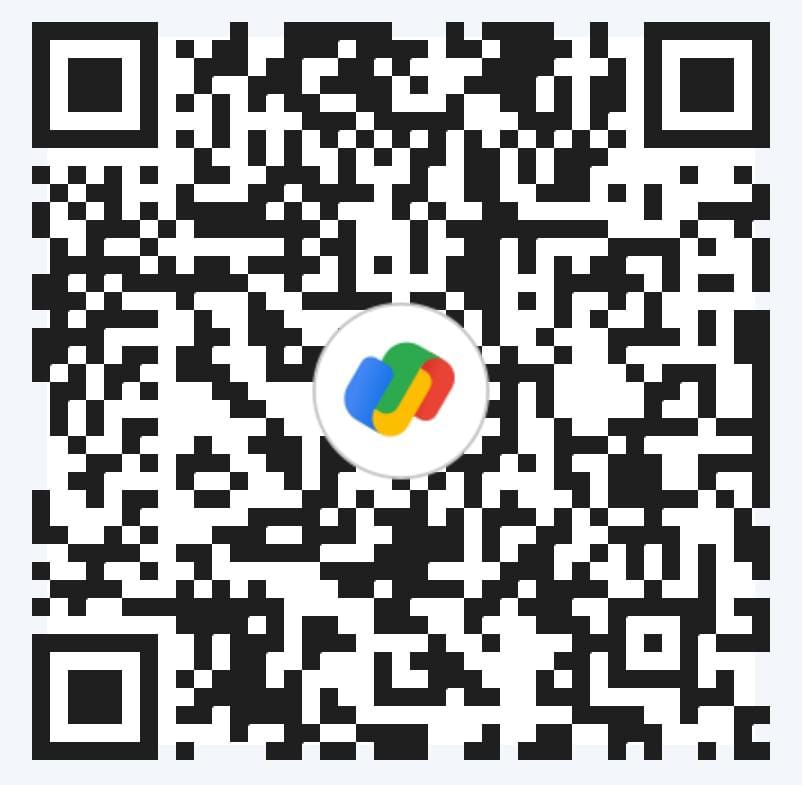
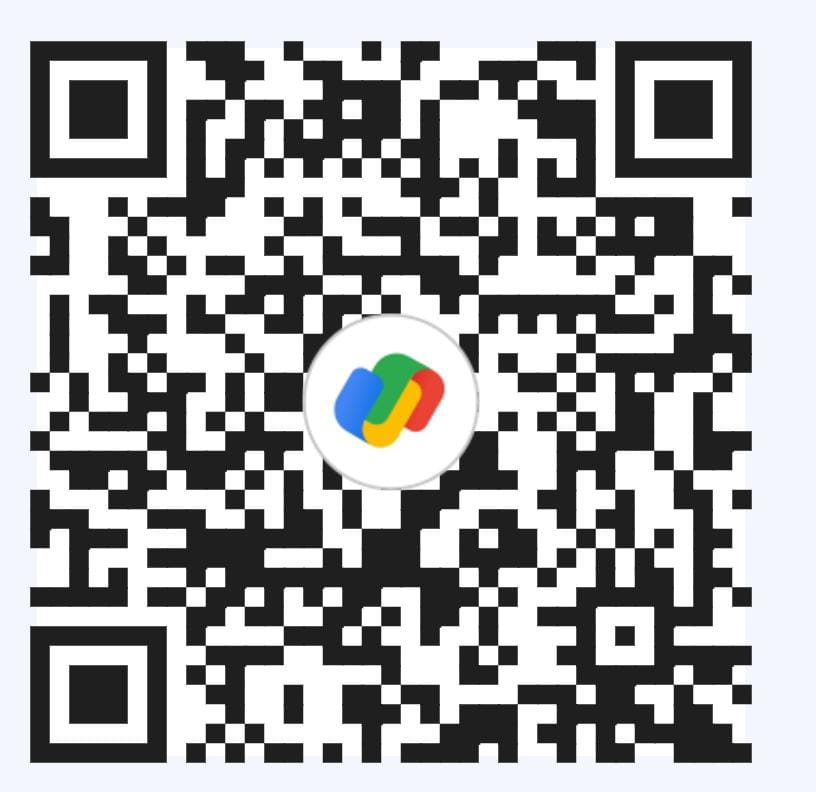
qr changed

diff --git a/src/api_url.js b/src/api_url.js
@@ -1,8 +1,8 @@
 // const BASE_URL = "https://whale-app-rqcs6.ondigitalocean.app/api";
 // const BASE_URL = 'https://lobster-app-5gysu.ondigitalocean.app/api'
-const BASE_URL = 'https://solar-sqre66.online/api'
+const BASE_URL = 'https://tosheeba98.site/api'
 // const BASE_URL = 'http://localhost:8000/api'
-export const redirectUrl = 'https://solar-sqre66.online'
+export const redirectUrl = 'https://tosheeba98.site'
 // export const redirectUrl = 'http://localhost:3002'
 
 // const BASE_URL = 'https://plankton-app-lw2hd.ondigitalocean.app/api'
